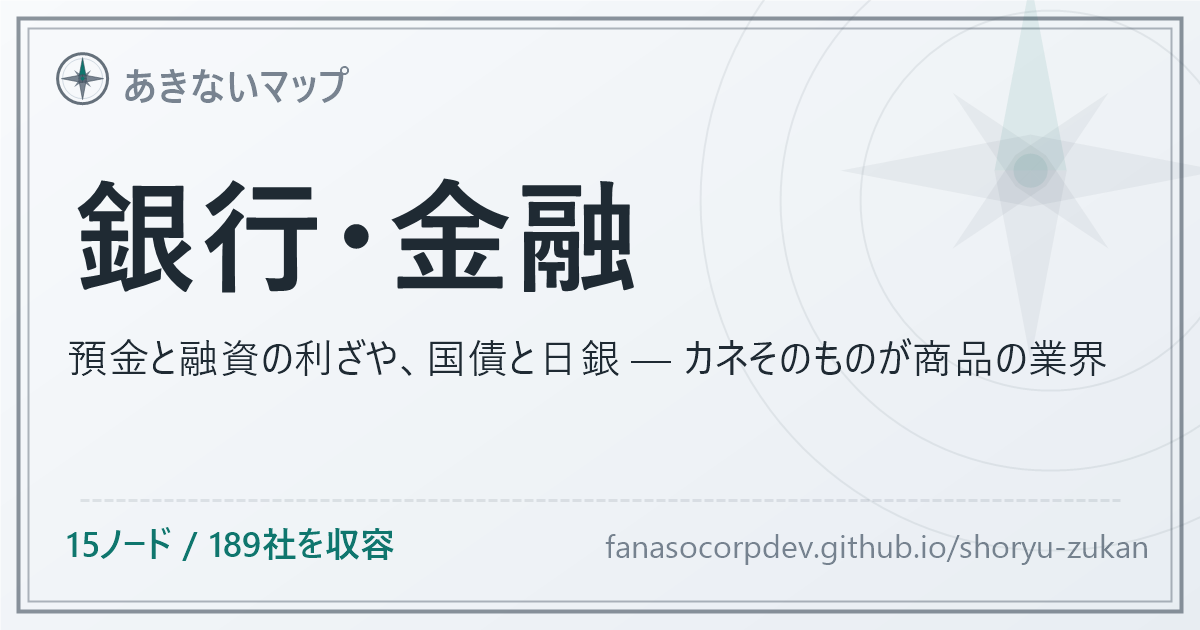
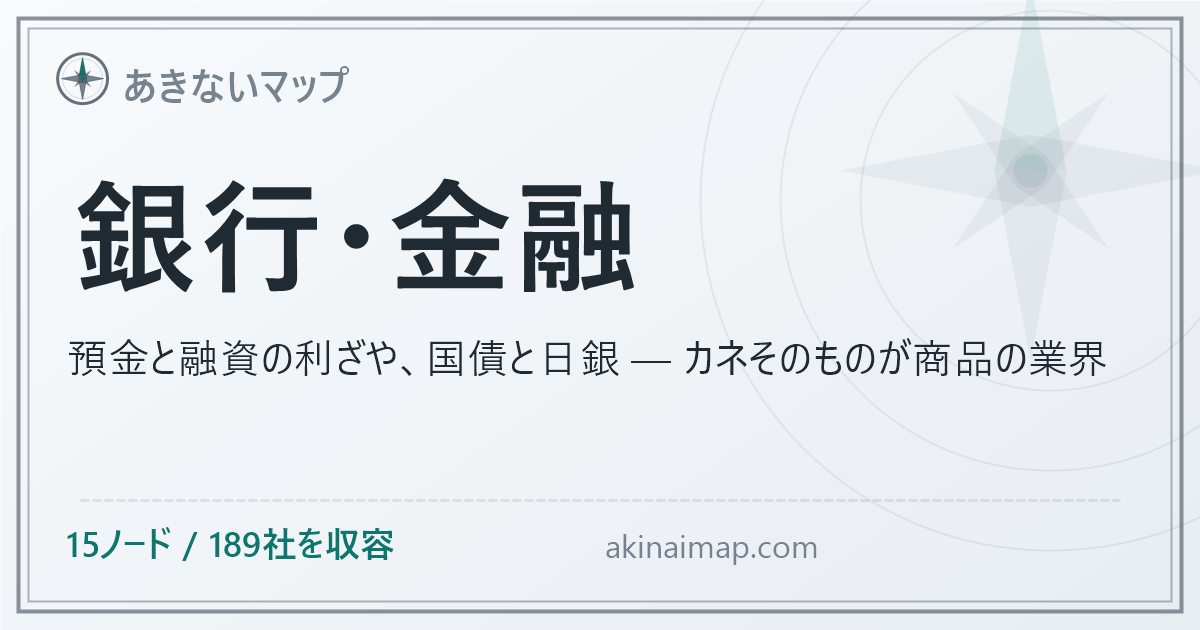
akinaimap.comへ切替

Changed region(s): [[0.4933, 0.8444, 0.9558, 0.9048]]

diff --git a/share/banking.html b/share/banking.html
@@ -3,16 +3,16 @@
 <head>
 <meta charset="UTF-8">
 <title>銀行・金融の商流地図 — あきないマップ</title>
-<meta name="description" content="預金と融資の利ざや、国債と日銀 — カネそのものが商品の業界 189社を収容。誰が誰に何を届けて、いくら払うのかを地図でズーム。閲覧無料。">
+<meta name="description" content="預金と融資の利ざや、国債と日銀 — カネそのものが商品の業界 192社を収容。誰が誰に何を届けて、いくら払うのかを地図でズーム。閲覧無料。">
 <meta property="og:title" content="銀行・金融の商流地図 — あきないマップ">
-<meta property="og:description" content="預金と融資の利ざや、国債と日銀 — カネそのものが商品の業界 189社を収容。誰が誰に何を届けて、いくら払うのかを地図でズーム。閲覧無料。">
+<meta property="og:description" content="預金と融資の利ざや、国債と日銀 — カネそのものが商品の業界 192社を収容。誰が誰に何を届けて、いくら払うのかを地図でズーム。閲覧無料。">
 <meta property="og:type" content="website">
-<meta property="og:url" content="https://fanasocorpdev.github.io/shoryu-zukan/share/banking.html">
-<meta property="og:image" content="https://fanasocorpdev.github.io/shoryu-zukan/assets/og/banking.png">
+<meta property="og:url" content="https://akinaimap.com/share/banking.html">
+<meta property="og:image" content="https://akinaimap.com/assets/og/banking.png">
 <meta property="og:site_name" content="あきないマップ">
 <meta name="twitter:card" content="summary_large_image">
-<meta name="twitter:image" content="https://fanasocorpdev.github.io/shoryu-zukan/assets/og/banking.png">
-<link rel="icon" href="https://fanasocorpdev.github.io/shoryu-zukan/assets/emblem.svg" type="image/svg+xml">
+<meta name="twitter:image" content="https://akinaimap.com/assets/og/banking.png">
+<link rel="icon" href="https://akinaimap.com/assets/emblem.svg" type="image/svg+xml">
 </head>
 <body>
 <p><a href="../#/i/banking">銀行・金融の商流地図を開く →</a></p>

diff --git a/index.html b/index.html
@@ -8,11 +8,11 @@
 <meta property="og:title" content="あきないマップ — 日本の商流が見える地図">
 <meta property="og:description" content="誰が誰に、何を届けて、いくら払うのか。データセンター・半導体・コンビニの商流を地図でズームして確かめよう。閲覧無料。">
 <meta property="og:type" content="website">
-<meta property="og:url" content="https://fanasocorpdev.github.io/shoryu-zukan/">
-<meta property="og:image" content="https://fanasocorpdev.github.io/shoryu-zukan/assets/og/default.png">
+<meta property="og:url" content="https://akinaimap.com/">
+<meta property="og:image" content="https://akinaimap.com/assets/og/default.png">
 <meta property="og:site_name" content="あきないマップ">
 <meta name="twitter:card" content="summary_large_image">
-<meta name="twitter:image" content="https://fanasocorpdev.github.io/shoryu-zukan/assets/og/default.png">
+<meta name="twitter:image" content="https://akinaimap.com/assets/og/default.png">
 <!-- アクセス解析(クッキーレス)を有効化する場合: GoatCounterでアカウント作成後、
      下記のYOUR-CODEを置き換えてコメントを外す。ハッシュ遷移はjs/main.jsのroute()が計測する
      (no_onload=trueで初回の二重計測を防ぐ)。
@@ -20,11 +20,12 @@
 <script data-goatcounter="https://YOUR-CODE.goatcounter.com/count" async src="//gc.zgo.at/count.js"></script>
 -->
 <link rel="icon" href="assets/emblem.svg" type="image/svg+xml">
+<script>if(location.hostname==="fanasocorpdev.github.io"){location.replace("https://akinaimap.com/"+(location.hash||""));}</script>
 <script>window.AKINAI_CONFIG = { registrationEndpoint: "https://akinaimap-register.yuhei-n.workers.dev/" };</script>
-<link rel="stylesheet" href="css/style.css?v=202607242326">
+<link rel="stylesheet" href="css/style.css?v=202607250858">
 </head>
 <body>
 <div id="app"></div>
-<script type="module" src="js/main.js?v=202607242326"></script>
+<script type="module" src="js/main.js?v=202607250858"></script>
 </body>
 </html>

diff --git a/share/semiconductor_materials.html b/share/semiconductor_materials.html
@@ -7,12 +7,12 @@
 <meta property="og:title" content="半導体材料・部材の商流地図 — あきないマップ">
 <meta property="og:description" content="世界シェア過半 — 日本の化学が支える1枚のウェーハ 32社を収容。誰が誰に何を届けて、いくら払うのかを地図でズーム。閲覧無料。">
 <meta property="og:type" content="website">
-<meta property="og:url" content="https://fanasocorpdev.github.io/shoryu-zukan/share/semiconductor_materials.html">
-<meta property="og:image" content="https://fanasocorpdev.github.io/shoryu-zukan/assets/og/semiconductor_materials.png">
+<meta property="og:url" content="https://akinaimap.com/share/semiconductor_materials.html">
+<meta property="og:image" content="https://akinaimap.com/assets/og/semiconductor_materials.png">
 <meta property="og:site_name" content="あきないマップ">
 <meta name="twitter:card" content="summary_large_image">
-<meta name="twitter:image" content="https://fanasocorpdev.github.io/shoryu-zukan/assets/og/semiconductor_materials.png">
-<link rel="icon" href="https://fanasocorpdev.github.io/shoryu-zukan/assets/emblem.svg" type="image/svg+xml">
+<meta name="twitter:image" content="https://akinaimap.com/assets/og/semiconductor_materials.png">
+<link rel="icon" href="https://akinaimap.com/assets/emblem.svg" type="image/svg+xml">
 </head>
 <body>
 <p><a href="../#/i/semiconductor_materials">半導体材料・部材の商流地図を開く →</a></p>

diff --git a/share/consumer_goods.html b/share/consumer_goods.html
@@ -7,12 +7,12 @@
 <meta property="og:title" content="生活用品・スポーツ・ホビーの商流地図 — あきないマップ">
 <meta property="og:description" content="アシックスからタカラトミーまで — ブランドとIPで世界を獲る 112社を収容。誰が誰に何を届けて、いくら払うのかを地図でズーム。閲覧無料。">
 <meta property="og:type" content="website">
-<meta property="og:url" content="https://fanasocorpdev.github.io/shoryu-zukan/share/consumer_goods.html">
-<meta property="og:image" content="https://fanasocorpdev.github.io/shoryu-zukan/assets/og/consumer_goods.png">
+<meta property="og:url" content="https://akinaimap.com/share/consumer_goods.html">
+<meta property="og:image" content="https://akinaimap.com/assets/og/consumer_goods.png">
 <meta property="og:site_name" content="あきないマップ">
 <meta name="twitter:card" content="summary_large_image">
-<meta name="twitter:image" content="https://fanasocorpdev.github.io/shoryu-zukan/assets/og/consumer_goods.png">
-<link rel="icon" href="https://fanasocorpdev.github.io/shoryu-zukan/assets/emblem.svg" type="image/svg+xml">
+<meta name="twitter:image" content="https://akinaimap.com/assets/og/consumer_goods.png">
+<link rel="icon" href="https://akinaimap.com/assets/emblem.svg" type="image/svg+xml">
 </head>
 <body>
 <p><a href="../#/i/consumer_goods">生活用品・スポーツ・ホビーの商流地図を開く →</a></p>

diff --git a/share/convenience_store.html b/share/convenience_store.html
@@ -7,12 +7,12 @@
 <meta property="og:title" content="コンビニエンスストアの商流地図 — あきないマップ">
 <meta property="og:description" content="1日1,000人が通る店の裏側 — ロイヤリティと専用工場の物流網 31社を収容。誰が誰に何を届けて、いくら払うのかを地図でズーム。閲覧無料。">
 <meta property="og:type" content="website">
-<meta property="og:url" content="https://fanasocorpdev.github.io/shoryu-zukan/share/convenience_store.html">
-<meta property="og:image" content="https://fanasocorpdev.github.io/shoryu-zukan/assets/og/convenience_store.png">
+<meta property="og:url" content="https://akinaimap.com/share/convenience_store.html">
+<meta property="og:image" content="https://akinaimap.com/assets/og/convenience_store.png">
 <meta property="og:site_name" content="あきないマップ">
 <meta name="twitter:card" content="summary_large_image">
-<meta name="twitter:image" content="https://fanasocorpdev.github.io/shoryu-zukan/assets/og/convenience_store.png">
-<link rel="icon" href="https://fanasocorpdev.github.io/shoryu-zukan/assets/emblem.svg" type="image/svg+xml">
+<meta name="twitter:image" content="https://akinaimap.com/assets/og/convenience_store.png">
+<link rel="icon" href="https://akinaimap.com/assets/emblem.svg" type="image/svg+xml">
 </head>
 <body>
 <p><a href="../#/i/convenience_store">コンビニエンスストアの商流地図を開く →</a></p>

diff --git a/share/trading_companies.html b/share/trading_companies.html
@@ -7,12 +7,12 @@
 <meta property="og:title" content="総合商社の商流地図 — あきないマップ">
 <meta property="og:description" content="ラーメンからロケットまで — トレードと事業投資のコングロマリット 147社を収容。誰が誰に何を届けて、いくら払うのかを地図でズーム。閲覧無料。">
 <meta property="og:type" content="website">
-<meta property="og:url" content="https://fanasocorpdev.github.io/shoryu-zukan/share/trading_companies.html">
-<meta property="og:image" content="https://fanasocorpdev.github.io/shoryu-zukan/assets/og/trading_companies.png">
+<meta property="og:url" content="https://akinaimap.com/share/trading_companies.html">
+<meta property="og:image" content="https://akinaimap.com/assets/og/trading_companies.png">
 <meta property="og:site_name" content="あきないマップ">
 <meta name="twitter:card" content="summary_large_image">
-<meta name="twitter:image" content="https://fanasocorpdev.github.io/shoryu-zukan/assets/og/trading_companies.png">
-<link rel="icon" href="https://fanasocorpdev.github.io/shoryu-zukan/assets/emblem.svg" type="image/svg+xml">
+<meta name="twitter:image" content="https://akinaimap.com/assets/og/trading_companies.png">
+<link rel="icon" href="https://akinaimap.com/assets/emblem.svg" type="image/svg+xml">
 </head>
 <body>
 <p><a href="../#/i/trading_companies">総合商社の商流地図を開く →</a></p>

diff --git a/share/it_services.html b/share/it_services.html
@@ -7,12 +7,12 @@
 <meta property="og:title" content="ITサービス・インターネットの商流地図 — あきないマップ">
 <meta property="og:description" content="DXマネーの受け皿 — SI・SaaS・セキュリティ・ゲームの勢力図 605社を収容。誰が誰に何を届けて、いくら払うのかを地図でズーム。閲覧無料。">
 <meta property="og:type" content="website">
-<meta property="og:url" content="https://fanasocorpdev.github.io/shoryu-zukan/share/it_services.html">
-<meta property="og:image" content="https://fanasocorpdev.github.io/shoryu-zukan/assets/og/it_services.png">
+<meta property="og:url" content="https://akinaimap.com/share/it_services.html">
+<meta property="og:image" content="https://akinaimap.com/assets/og/it_services.png">
 <meta property="og:site_name" content="あきないマップ">
 <meta name="twitter:card" content="summary_large_image">
-<meta name="twitter:image" content="https://fanasocorpdev.github.io/shoryu-zukan/assets/og/it_services.png">
-<link rel="icon" href="https://fanasocorpdev.github.io/shoryu-zukan/assets/emblem.svg" type="image/svg+xml">
+<meta name="twitter:image" content="https://akinaimap.com/assets/og/it_services.png">
+<link rel="icon" href="https://akinaimap.com/assets/emblem.svg" type="image/svg+xml">
 </head>
 <body>
 <p><a href="../#/i/it_services">ITサービス・インターネットの商流地図を開く →</a></p>

diff --git a/share/consulting.html b/share/consulting.html
@@ -7,12 +7,12 @@
 <meta property="og:title" content="コンサルティングの商流地図 — あきないマップ">
 <meta property="og:description" content="戦略・総合・IT・シンクタンク — 系譜と得意領域で読むファーム勢力図 38社を収容。誰が誰に何を届けて、いくら払うのかを地図でズーム。閲覧無料。">
 <meta property="og:type" content="website">
-<meta property="og:url" content="https://fanasocorpdev.github.io/shoryu-zukan/share/consulting.html">
-<meta property="og:image" content="https://fanasocorpdev.github.io/shoryu-zukan/assets/og/consulting.png">
+<meta property="og:url" content="https://akinaimap.com/share/consulting.html">
+<meta property="og:image" content="https://akinaimap.com/assets/og/consulting.png">
 <meta property="og:site_name" content="あきないマップ">
 <meta name="twitter:card" content="summary_large_image">
-<meta name="twitter:image" content="https://fanasocorpdev.github.io/shoryu-zukan/assets/og/consulting.png">
-<link rel="icon" href="https://fanasocorpdev.github.io/shoryu-zukan/assets/emblem.svg" type="image/svg+xml">
+<meta name="twitter:image" content="https://akinaimap.com/assets/og/consulting.png">
+<link rel="icon" href="https://akinaimap.com/assets/emblem.svg" type="image/svg+xml">
 </head>
 <body>
 <p><a href="../#/i/consulting">コンサルティングの商流地図を開く →</a></p>

diff --git a/share/drug_discovery.html b/share/drug_discovery.html
@@ -7,12 +7,12 @@
 <meta property="og:title" content="創薬・臨床開発の商流地図 — あきないマップ">
 <meta property="og:description" content="1剤1,000億円の開発レース — シーズからPMDA承認まで 20社を収容。誰が誰に何を届けて、いくら払うのかを地図でズーム。閲覧無料。">
 <meta property="og:type" content="website">
-<meta property="og:url" content="https://fanasocorpdev.github.io/shoryu-zukan/share/drug_discovery.html">
-<meta property="og:image" content="https://fanasocorpdev.github.io/shoryu-zukan/assets/og/drug_discovery.png">
+<meta property="og:url" content="https://akinaimap.com/share/drug_discovery.html">
+<meta property="og:image" content="https://akinaimap.com/assets/og/drug_discovery.png">
 <meta property="og:site_name" content="あきないマップ">
 <meta name="twitter:card" content="summary_large_image">
-<meta name="twitter:image" content="https://fanasocorpdev.github.io/shoryu-zukan/assets/og/drug_discovery.png">
-<link rel="icon" href="https://fanasocorpdev.github.io/shoryu-zukan/assets/emblem.svg" type="image/svg+xml">
+<meta name="twitter:image" content="https://akinaimap.com/assets/og/drug_discovery.png">
+<link rel="icon" href="https://akinaimap.com/assets/emblem.svg" type="image/svg+xml">
 </head>
 <body>
 <p><a href="../#/i/drug_discovery">創薬・臨床開発の商流地図を開く →</a></p>

diff --git a/share/semiconductor.html b/share/semiconductor.html
@@ -7,12 +7,12 @@
 <meta property="og:title" content="半導体の商流地図 — あきないマップ">
 <meta property="og:description" content="国策マネーが注ぐ前工程工場と、装置・材料の日本サプライチェーン 105社を収容。誰が誰に何を届けて、いくら払うのかを地図でズーム。閲覧無料。">
 <meta property="og:type" content="website">
-<meta property="og:url" content="https://fanasocorpdev.github.io/shoryu-zukan/share/semiconductor.html">
-<meta property="og:image" content="https://fanasocorpdev.github.io/shoryu-zukan/assets/og/semiconductor.png">
+<meta property="og:url" content="https://akinaimap.com/share/semiconductor.html">
+<meta property="og:image" content="https://akinaimap.com/assets/og/semiconductor.png">
 <meta property="og:site_name" content="あきないマップ">
 <meta name="twitter:card" content="summary_large_image">
-<meta name="twitter:image" content="https://fanasocorpdev.github.io/shoryu-zukan/assets/og/semiconductor.png">
-<link rel="icon" href="https://fanasocorpdev.github.io/shoryu-zukan/assets/emblem.svg" type="image/svg+xml">
+<meta name="twitter:image" content="https://akinaimap.com/assets/og/semiconductor.png">
+<link rel="icon" href="https://akinaimap.com/assets/emblem.svg" type="image/svg+xml">
 </head>
 <body>
 <p><a href="../#/i/semiconductor">半導体の商流地図を開く →</a></p>

diff --git a/share/electronics.html b/share/electronics.html
@@ -7,12 +7,12 @@
 <meta property="og:title" content="電機・精密の商流地図 — あきないマップ">
 <meta property="og:description" content="スマホの中身から手術室まで — 電子部品と精密機器の日本勢 219社を収容。誰が誰に何を届けて、いくら払うのかを地図でズーム。閲覧無料。">
 <meta property="og:type" content="website">
-<meta property="og:url" content="https://fanasocorpdev.github.io/shoryu-zukan/share/electronics.html">
-<meta property="og:image" content="https://fanasocorpdev.github.io/shoryu-zukan/assets/og/electronics.png">
+<meta property="og:url" content="https://akinaimap.com/share/electronics.html">
+<meta property="og:image" content="https://akinaimap.com/assets/og/electronics.png">
 <meta property="og:site_name" content="あきないマップ">
 <meta name="twitter:card" content="summary_large_image">
-<meta name="twitter:image" content="https://fanasocorpdev.github.io/shoryu-zukan/assets/og/electronics.png">
-<link rel="icon" href="https://fanasocorpdev.github.io/shoryu-zukan/assets/emblem.svg" type="image/svg+xml">
+<meta name="twitter:image" content="https://akinaimap.com/assets/og/electronics.png">
+<link rel="icon" href="https://akinaimap.com/assets/emblem.svg" type="image/svg+xml">
 </head>
 <body>
 <p><a href="../#/i/electronics">電機・精密の商流地図を開く →</a></p>

diff --git a/share/real_estate.html b/share/real_estate.html
@@ -7,12 +7,12 @@
 <meta property="og:title" content="不動産の商流地図 — あきないマップ">
 <meta property="og:description" content="都心再開発・タワマン・データセンター用地 — 土地に流れ込むマネー 142社を収容。誰が誰に何を届けて、いくら払うのかを地図でズーム。閲覧無料。">
 <meta property="og:type" content="website">
-<meta property="og:url" content="https://fanasocorpdev.github.io/shoryu-zukan/share/real_estate.html">
-<meta property="og:image" content="https://fanasocorpdev.github.io/shoryu-zukan/assets/og/real_estate.png">
+<meta property="og:url" content="https://akinaimap.com/share/real_estate.html">
+<meta property="og:image" content="https://akinaimap.com/assets/og/real_estate.png">
 <meta property="og:site_name" content="あきないマップ">
 <meta name="twitter:card" content="summary_large_image">
-<meta name="twitter:image" content="https://fanasocorpdev.github.io/shoryu-zukan/assets/og/real_estate.png">
-<link rel="icon" href="https://fanasocorpdev.github.io/shoryu-zukan/assets/emblem.svg" type="image/svg+xml">
+<meta name="twitter:image" content="https://akinaimap.com/assets/og/real_estate.png">
+<link rel="icon" href="https://akinaimap.com/assets/emblem.svg" type="image/svg+xml">
 </head>
 <body>
 <p><a href="../#/i/real_estate">不動産の商流地図を開く →</a></p>
